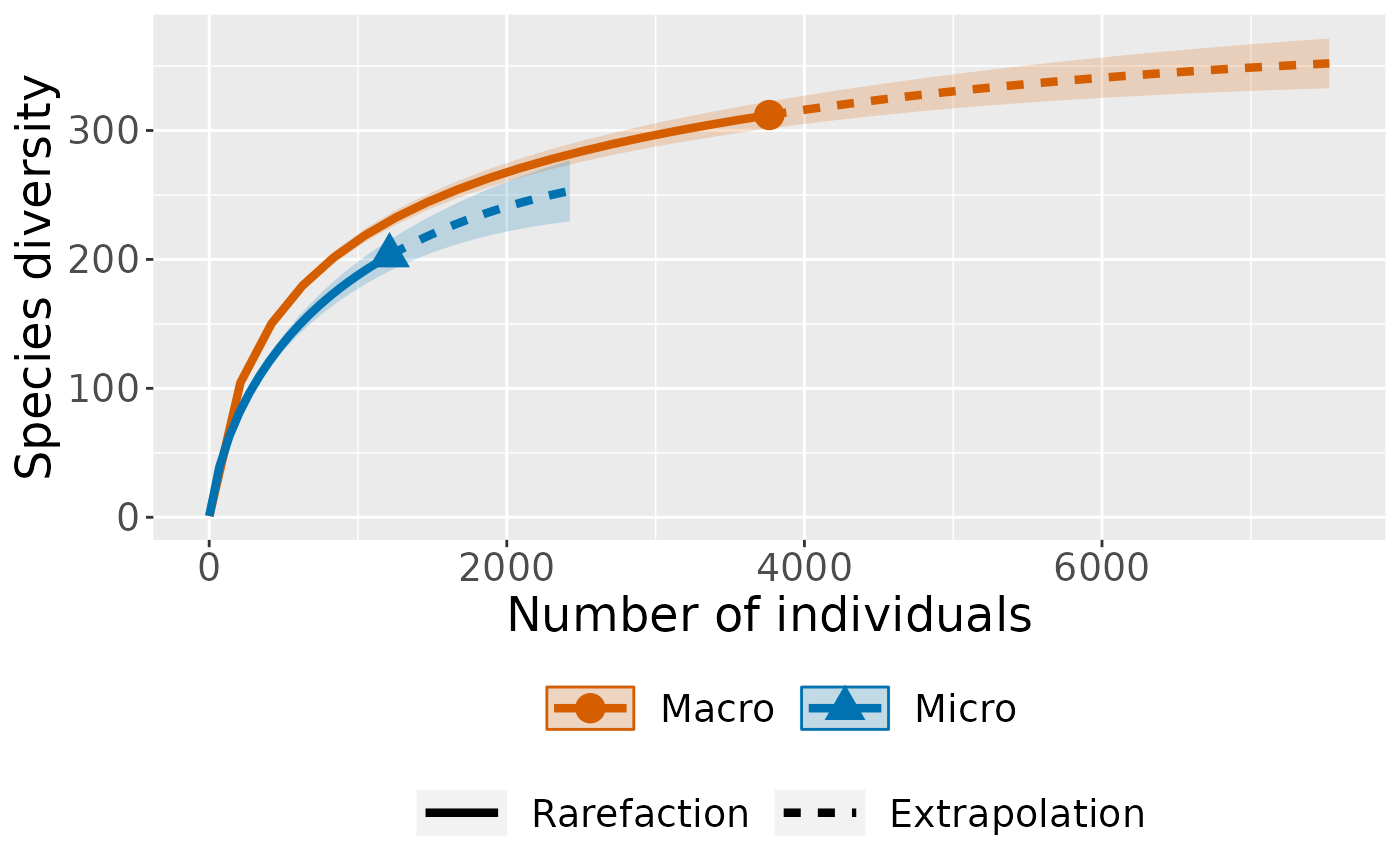
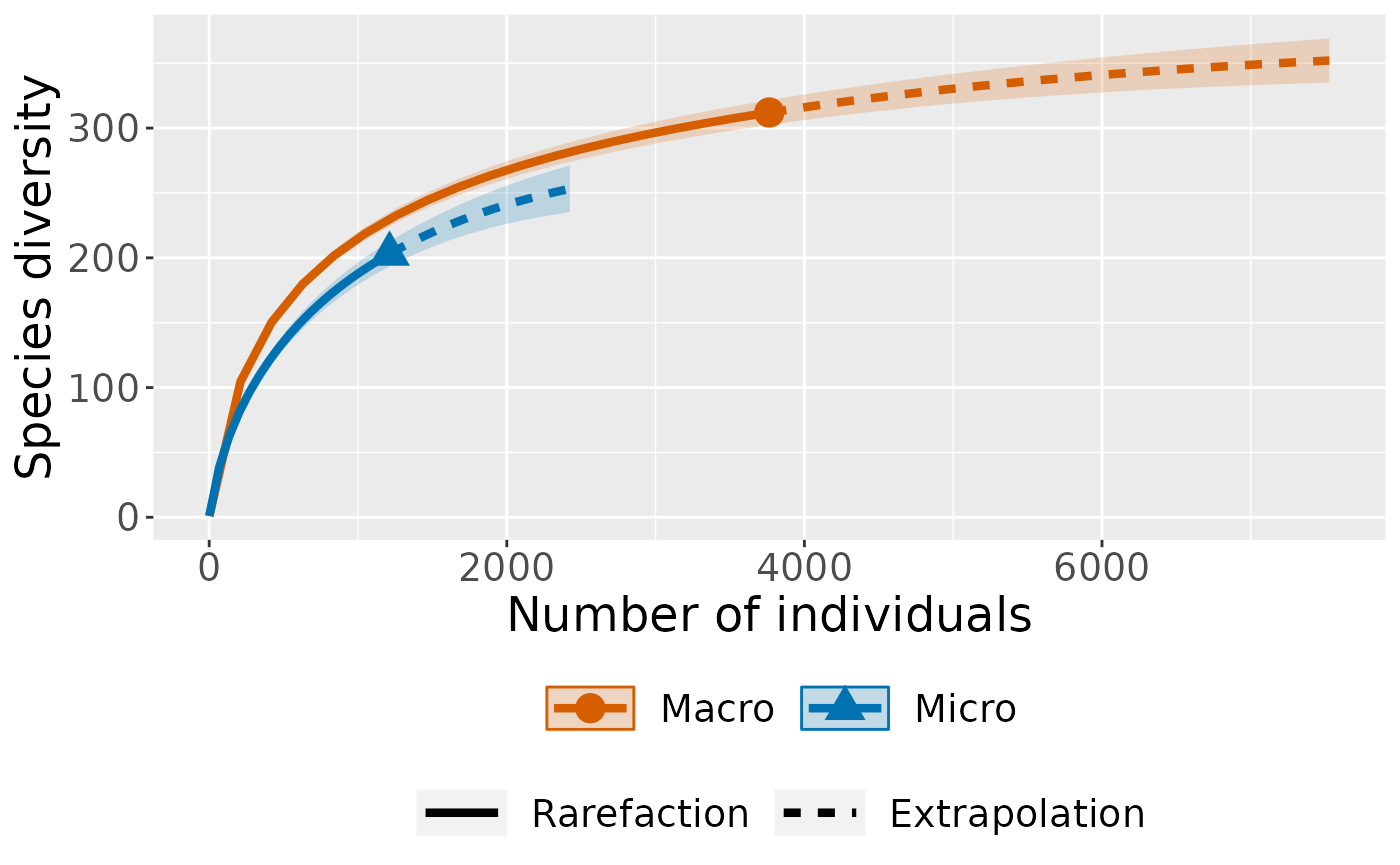
Deploying to gh-pages from @ PietrH/vlindersRarefaction@017744495704d2b400fa00a9a1edd5aad34b0b91 🚀

Changed region(s): [[0.1843, 0.0624, 0.9521, 0.4058], [0.0307, 0.1249, 0.0921, 0.1873], [0.0614, 0.2809, 0.0921, 0.3121]]

diff --git a/articles/plotting-warande.html b/articles/plotting-warande.html
@@ -122,66 +122,66 @@ shape (and exactly this shape) to this format.</p>
 <span><span class="co">#&gt; $iNextEst: diversity estimates with rarefied and extrapolated samples.</span></span>
 <span><span class="co">#&gt; $size_based (LCL and UCL are obtained for fixed size.)</span></span>
 <span><span class="co">#&gt; </span></span>
-<span><span class="co">#&gt;    Assemblage   t        Method Order.q         qD     qD.LCL    qD.UCL</span></span>
-<span><span class="co">#&gt; 1       Macro   1   Rarefaction       0  13.765432  13.164296  14.36657</span></span>
-<span><span class="co">#&gt; 10      Macro  81   Rarefaction       0 259.802910 251.536354 268.06947</span></span>
-<span><span class="co">#&gt; 20      Macro 162      Observed       0 312.000000 300.176324 323.82368</span></span>
-<span><span class="co">#&gt; 30      Macro 239 Extrapolation       0 337.999160 321.381360 354.61696</span></span>
-<span><span class="co">#&gt; 40      Macro 324 Extrapolation       0 353.816856 331.499702 376.13401</span></span>
-<span><span class="co">#&gt; 41      Micro   1   Rarefaction       0   5.006711   4.575913   5.43751</span></span>
-<span><span class="co">#&gt; 50      Micro  74   Rarefaction       0 147.884654 138.631390 157.13792</span></span>
-<span><span class="co">#&gt; 60      Micro 149      Observed       0 203.000000 190.091721 215.90828</span></span>
-<span><span class="co">#&gt; 70      Micro 220 Extrapolation       0 234.001881 217.817970 250.18579</span></span>
-<span><span class="co">#&gt; 80      Micro 298 Extrapolation       0 255.307935 234.951727 275.66414</span></span>
+<span><span class="co">#&gt;    Assemblage   t        Method Order.q         qD     qD.LCL     qD.UCL</span></span>
+<span><span class="co">#&gt; 1       Macro   1   Rarefaction       0  13.765432  13.245141  14.285723</span></span>
+<span><span class="co">#&gt; 10      Macro  81   Rarefaction       0 259.802910 250.619429 268.986392</span></span>
+<span><span class="co">#&gt; 20      Macro 162      Observed       0 312.000000 298.010957 325.989043</span></span>
+<span><span class="co">#&gt; 30      Macro 239 Extrapolation       0 337.999160 319.766242 356.232079</span></span>
+<span><span class="co">#&gt; 40      Macro 324 Extrapolation       0 353.816856 330.747774 376.885939</span></span>
+<span><span class="co">#&gt; 41      Micro   1   Rarefaction       0   5.006711   4.621654   5.391769</span></span>
+<span><span class="co">#&gt; 50      Micro  74   Rarefaction       0 147.884654 137.259141 158.510167</span></span>
+<span><span class="co">#&gt; 60      Micro 149      Observed       0 203.000000 187.241687 218.758313</span></span>
+<span><span class="co">#&gt; 70      Micro 220 Extrapolation       0 234.001881 214.162157 253.841605</span></span>
+<span><span class="co">#&gt; 80      Micro 298 Extrapolation       0 255.307935 230.441509 280.174362</span></span>
 <span><span class="co">#&gt;            SC     SC.LCL     SC.UCL</span></span>
-<span><span class="co">#&gt; 1  0.09081692 0.08436848 0.09726536</span></span>
-<span><span class="co">#&gt; 10 0.93026235 0.92319491 0.93732978</span></span>
-<span><span class="co">#&gt; 20 0.96795077 0.96179917 0.97410238</span></span>
-<span><span class="co">#&gt; 30 0.98185989 0.97535300 0.98836678</span></span>
-<span><span class="co">#&gt; 40 0.99032209 0.98493496 0.99570922</span></span>
-<span><span class="co">#&gt; 41 0.05474241 0.04670750 0.06277732</span></span>
-<span><span class="co">#&gt; 50 0.79818804 0.77093144 0.82544464</span></span>
-<span><span class="co">#&gt; 60 0.89210493 0.86964428 0.91456559</span></span>
-<span><span class="co">#&gt; 70 0.93111330 0.91063865 0.95158795</span></span>
-<span><span class="co">#&gt; 80 0.95792181 0.94114227 0.97470135</span></span>
+<span><span class="co">#&gt; 1  0.09081692 0.08517583 0.09645802</span></span>
+<span><span class="co">#&gt; 10 0.93026235 0.92288634 0.93763835</span></span>
+<span><span class="co">#&gt; 20 0.96795077 0.96154265 0.97435890</span></span>
+<span><span class="co">#&gt; 30 0.98185989 0.97531547 0.98840431</span></span>
+<span><span class="co">#&gt; 40 0.99032209 0.98503424 0.99560994</span></span>
+<span><span class="co">#&gt; 41 0.05474241 0.04722618 0.06225864</span></span>
+<span><span class="co">#&gt; 50 0.79818804 0.77547882 0.82089726</span></span>
+<span><span class="co">#&gt; 60 0.89210493 0.87148117 0.91272869</span></span>
+<span><span class="co">#&gt; 70 0.93111330 0.90925878 0.95296781</span></span>
+<span><span class="co">#&gt; 80 0.95792181 0.93864259 0.97720103</span></span>
 <span><span class="co">#&gt; </span></span>
 <span><span class="co">#&gt; NOTE: The above output only shows five estimates for each assemblage; call iNEXT.object$iNextEst$size_based to view complete output.</span></span>
 <span><span class="co">#&gt; </span></span>
 <span><span class="co">#&gt; $coverage_based (LCL and UCL are obtained for fixed coverage; interval length is wider due to varying size in bootstraps.)</span></span>
 <span><span class="co">#&gt; </span></span>
 <span><span class="co">#&gt;    Assemblage         SC   t        Method Order.q         qD     qD.LCL</span></span>
-<span><span class="co">#&gt; 1       Macro 0.09081810   1   Rarefaction       0  13.765607  13.237325</span></span>
-<span><span class="co">#&gt; 10      Macro 0.93026235  81   Rarefaction       0 259.802915 247.778547</span></span>
-<span><span class="co">#&gt; 20      Macro 0.96795077 162      Observed       0 312.000000 293.407578</span></span>
-<span><span class="co">#&gt; 30      Macro 0.98185989 239 Extrapolation       0 337.999160 312.647458</span></span>
-<span><span class="co">#&gt; 40      Macro 0.99032209 324 Extrapolation       0 353.816856 323.330099</span></span>
-<span><span class="co">#&gt; 41      Micro 0.05474241   1   Rarefaction       0   5.006711   4.590717</span></span>
-<span><span class="co">#&gt; 50      Micro 0.79818804  74   Rarefaction       0 147.884652 132.084718</span></span>
-<span><span class="co">#&gt; 60      Micro 0.89210493 149      Observed       0 203.000000 181.861370</span></span>
-<span><span class="co">#&gt; 70      Micro 0.93111330 220 Extrapolation       0 234.001881 210.027268</span></span>
-<span><span class="co">#&gt; 80      Micro 0.95792181 298 Extrapolation       0 255.307935 228.120667</span></span>
+<span><span class="co">#&gt; 1       Macro 0.09081810   1   Rarefaction       0  13.765607  13.266380</span></span>
+<span><span class="co">#&gt; 10      Macro 0.93026235  81   Rarefaction       0 259.802915 245.927419</span></span>
+<span><span class="co">#&gt; 20      Macro 0.96795077 162      Observed       0 312.000000 290.333898</span></span>
+<span><span class="co">#&gt; 30      Macro 0.98185989 239 Extrapolation       0 337.999160 311.502399</span></span>
+<span><span class="co">#&gt; 40      Macro 0.99032209 324 Extrapolation       0 353.816856 323.432619</span></span>
+<span><span class="co">#&gt; 41      Micro 0.05474241   1   Rarefaction       0   5.006711   4.597889</span></span>
+<span><span class="co">#&gt; 50      Micro 0.79818804  74   Rarefaction       0 147.884652 131.900335</span></span>
+<span><span class="co">#&gt; 60      Micro 0.89210493 149      Observed       0 203.000000 179.028174</span></span>
+<span><span class="co">#&gt; 70      Micro 0.93111330 220 Extrapolation       0 234.001881 204.528640</span></span>
+<span><span class="co">#&gt; 80      Micro 0.95792181 298 Extrapolation       0 255.307935 221.041284</span></span>
 <span><span class="co">#&gt;        qD.UCL</span></span>
-<span><span class="co">#&gt; 1   14.293889</span></span>
-<span><span class="co">#&gt; 10 271.827283</span></span>
-<span><span class="co">#&gt; 20 330.592422</span></span>
-<span><span class="co">#&gt; 30 363.350863</span></span>
-<span><span class="co">#&gt; 40 384.303614</span></span>
-<span><span class="co">#&gt; 41   5.422706</span></span>
-<span><span class="co">#&gt; 50 163.684586</span></span>
-<span><span class="co">#&gt; 60 224.138630</span></span>
-<span><span class="co">#&gt; 70 257.976494</span></span>
-<span><span class="co">#&gt; 80 282.495203</span></span>
+<span><span class="co">#&gt; 1   14.264834</span></span>
+<span><span class="co">#&gt; 10 273.678411</span></span>
+<span><span class="co">#&gt; 20 333.666102</span></span>
+<span><span class="co">#&gt; 30 364.495921</span></span>
+<span><span class="co">#&gt; 40 384.201094</span></span>
+<span><span class="co">#&gt; 41   5.415534</span></span>
+<span><span class="co">#&gt; 50 163.868969</span></span>
+<span><span class="co">#&gt; 60 226.971826</span></span>
+<span><span class="co">#&gt; 70 263.475122</span></span>
+<span><span class="co">#&gt; 80 289.574587</span></span>
 <span><span class="co">#&gt; </span></span>
 <span><span class="co">#&gt; NOTE: The above output only shows five estimates for each assemblage; call iNEXT.object$iNextEst$coverage_based to view complete output.</span></span>
 <span><span class="co">#&gt; </span></span>
 <span><span class="co">#&gt; $AsyEst: asymptotic diversity estimates along with related statistics.</span></span>
 <span><span class="co">#&gt;   Assemblage         Diversity  Observed Estimator      s.e.       LCL      UCL</span></span>
-<span><span class="co">#&gt; 1      Macro  Species richness 312.00000 371.90698 16.857158 338.86756 404.9464</span></span>
-<span><span class="co">#&gt; 2      Macro Shannon diversity 193.08584 210.89968  3.937295 203.18272 218.6166</span></span>
-<span><span class="co">#&gt; 3      Macro Simpson diversity 142.75175 151.57339  3.546636 144.62211 158.5247</span></span>
-<span><span class="co">#&gt; 4      Micro  Species richness 203.00000 288.74956 23.795867 242.11052 335.3886</span></span>
-<span><span class="co">#&gt; 5      Micro Shannon diversity 123.68027 152.96329  6.594415 140.03847 165.8881</span></span>
-<span><span class="co">#&gt; 6      Micro Simpson diversity  81.96112  91.45944  5.301807  81.06808 101.8508</span></span></code></pre></div>
+<span><span class="co">#&gt; 1      Macro  Species richness 312.00000 371.90698 16.837782 338.90553 404.9084</span></span>
+<span><span class="co">#&gt; 2      Macro Shannon diversity 193.08584 210.89968  4.433147 202.21087 219.5885</span></span>
+<span><span class="co">#&gt; 3      Macro Simpson diversity 142.75175 151.57339  4.109634 143.51866 159.6281</span></span>
+<span><span class="co">#&gt; 4      Micro  Species richness 203.00000 288.74956 21.842015 245.94000 331.5591</span></span>
+<span><span class="co">#&gt; 5      Micro Shannon diversity 123.68027 152.96329  6.835325 139.56630 166.3603</span></span>
+<span><span class="co">#&gt; 6      Micro Simpson diversity  81.96112  91.45944  5.016993  81.62631 101.2926</span></span></code></pre></div>
 <p>And plot it:</p>
 <div class="sourceCode" id="cb4"><pre class="downlit sourceCode r">
 <code class="sourceCode R"><span><span class="fu">iNEXT</span><span class="fu">::</span><span class="fu"><a href="https://rdrr.io/pkg/iNEXT/man/ggiNEXT.html" class="external-link">ggiNEXT</a></span><span class="op">(</span><span class="va">rare_out_inc</span><span class="op">)</span></span></code></pre></div>
@@ -216,71 +216,71 @@ shape (and exactly this shape) to this format.</p>
 <span><span class="co">#&gt; </span></span>
 <span><span class="co">#&gt;    Assemblage    m        Method Order.q       qD   qD.LCL   qD.UCL         SC</span></span>
 <span><span class="co">#&gt; 1       Macro    1   Rarefaction       0   1.0000   1.0000   1.0000 0.01518561</span></span>
-<span><span class="co">#&gt; 10      Macro 1882   Rarefaction       0 263.1436 256.1281 270.1590 0.96069585</span></span>
-<span><span class="co">#&gt; 20      Macro 3764      Observed       0 312.0000 301.4757 322.5243 0.98220515</span></span>
-<span><span class="co">#&gt; 30      Macro 5547 Extrapolation       0 336.5489 322.0047 351.0930 0.98960299</span></span>
-<span><span class="co">#&gt; 40      Macro 7528 Extrapolation       0 352.0598 332.7578 371.3618 0.99427725</span></span>
+<span><span class="co">#&gt; 10      Macro 1882   Rarefaction       0 263.1436 256.4991 269.7880 0.96069585</span></span>
+<span><span class="co">#&gt; 20      Macro 3764      Observed       0 312.0000 302.4437 321.5563 0.98220515</span></span>
+<span><span class="co">#&gt; 30      Macro 5547 Extrapolation       0 336.5489 324.0201 349.0777 0.98960299</span></span>
+<span><span class="co">#&gt; 40      Macro 7528 Extrapolation       0 352.0598 335.0589 369.0608 0.99427725</span></span>
 <span><span class="co">#&gt; 41      Micro    1   Rarefaction       0   1.0000   1.0000   1.0000 0.06690595</span></span>
-<span><span class="co">#&gt; 50      Micro  606   Rarefaction       0 149.2826 142.1720 156.3932 0.87805769</span></span>
-<span><span class="co">#&gt; 60      Micro 1212      Observed       0 203.0000 190.9296 215.0704 0.93487158</span></span>
-<span><span class="co">#&gt; 70      Micro 1786 Extrapolation       0 232.8697 215.7317 250.0077 0.95920486</span></span>
-<span><span class="co">#&gt; 80      Micro 2424 Extrapolation       0 253.1737 229.5597 276.7876 0.97574539</span></span>
+<span><span class="co">#&gt; 50      Micro  606   Rarefaction       0 149.2826 142.6467 155.9186 0.87805769</span></span>
+<span><span class="co">#&gt; 60      Micro 1212      Observed       0 203.0000 193.3117 212.6883 0.93487158</span></span>
+<span><span class="co">#&gt; 70      Micro 1786 Extrapolation       0 232.8697 219.7157 246.0238 0.95920486</span></span>
+<span><span class="co">#&gt; 80      Micro 2424 Extrapolation       0 253.1737 235.1758 271.1715 0.97574539</span></span>
 <span><span class="co">#&gt;        SC.LCL     SC.UCL</span></span>
-<span><span class="co">#&gt; 1  0.01409357 0.01627766</span></span>
-<span><span class="co">#&gt; 10 0.95740750 0.96398420</span></span>
-<span><span class="co">#&gt; 20 0.97891088 0.98549942</span></span>
-<span><span class="co">#&gt; 30 0.98616108 0.99304491</span></span>
-<span><span class="co">#&gt; 40 0.99144611 0.99710839</span></span>
-<span><span class="co">#&gt; 41 0.05739666 0.07641523</span></span>
-<span><span class="co">#&gt; 50 0.86618494 0.88993045</span></span>
-<span><span class="co">#&gt; 60 0.92378690 0.94595626</span></span>
-<span><span class="co">#&gt; 70 0.94608977 0.97231994</span></span>
-<span><span class="co">#&gt; 80 0.96374726 0.98774353</span></span>
+<span><span class="co">#&gt; 1  0.01403361 0.01633762</span></span>
+<span><span class="co">#&gt; 10 0.95795792 0.96343378</span></span>
+<span><span class="co">#&gt; 20 0.97943744 0.98497286</span></span>
+<span><span class="co">#&gt; 30 0.98615218 0.99305381</span></span>
+<span><span class="co">#&gt; 40 0.99120865 0.99734584</span></span>
+<span><span class="co">#&gt; 41 0.05801637 0.07579552</span></span>
+<span><span class="co">#&gt; 50 0.86941199 0.88670340</span></span>
+<span><span class="co">#&gt; 60 0.92521940 0.94452377</span></span>
+<span><span class="co">#&gt; 70 0.94810359 0.97030612</span></span>
+<span><span class="co">#&gt; 80 0.96592037 0.98557042</span></span>
 <span><span class="co">#&gt; </span></span>
 <span><span class="co">#&gt; NOTE: The above output only shows five estimates for each assemblage; call iNEXT.object$iNextEst$size_based to view complete output.</span></span>
 <span><span class="co">#&gt; </span></span>
 <span><span class="co">#&gt; $coverage_based (LCL and UCL are obtained for fixed coverage; interval length is wider due to varying size in bootstraps.)</span></span>
 <span><span class="co">#&gt; </span></span>
 <span><span class="co">#&gt;    Assemblage         SC    m        Method Order.q         qD      qD.LCL</span></span>
-<span><span class="co">#&gt; 1       Macro 0.01518581    1   Rarefaction       0   1.000013   0.9712745</span></span>
-<span><span class="co">#&gt; 10      Macro 0.96069585 1882   Rarefaction       0 263.143565 252.1752976</span></span>
-<span><span class="co">#&gt; 20      Macro 0.98220515 3764      Observed       0 312.000000 294.3107304</span></span>
-<span><span class="co">#&gt; 30      Macro 0.98960299 5547 Extrapolation       0 336.548863 314.1639052</span></span>
-<span><span class="co">#&gt; 40      Macro 0.99427725 7528 Extrapolation       0 352.059815 325.9216611</span></span>
-<span><span class="co">#&gt; 41      Micro 0.06690595    1   Rarefaction       0   1.000000   0.8861384</span></span>
-<span><span class="co">#&gt; 50      Micro 0.87805770  606   Rarefaction       0 149.282641 135.3353845</span></span>
-<span><span class="co">#&gt; 60      Micro 0.93487158 1212      Observed       0 203.000000 181.0865832</span></span>
-<span><span class="co">#&gt; 70      Micro 0.95920486 1786 Extrapolation       0 232.869717 202.9713395</span></span>
-<span><span class="co">#&gt; 80      Micro 0.97574539 2424 Extrapolation       0 253.173653 216.7088422</span></span>
+<span><span class="co">#&gt; 1       Macro 0.01518581    1   Rarefaction       0   1.000013   0.9699234</span></span>
+<span><span class="co">#&gt; 10      Macro 0.96069585 1882   Rarefaction       0 263.143565 253.2135532</span></span>
+<span><span class="co">#&gt; 20      Macro 0.98220515 3764      Observed       0 312.000000 296.9635376</span></span>
+<span><span class="co">#&gt; 30      Macro 0.98960299 5547 Extrapolation       0 336.548863 316.1240847</span></span>
+<span><span class="co">#&gt; 40      Macro 0.99427725 7528 Extrapolation       0 352.059815 326.8827939</span></span>
+<span><span class="co">#&gt; 41      Micro 0.06690595    1   Rarefaction       0   1.000000   0.9274822</span></span>
+<span><span class="co">#&gt; 50      Micro 0.87805770  606   Rarefaction       0 149.282641 138.0479881</span></span>
+<span><span class="co">#&gt; 60      Micro 0.93487158 1212      Observed       0 203.000000 186.8251174</span></span>
+<span><span class="co">#&gt; 70      Micro 0.95920486 1786 Extrapolation       0 232.869717 211.4164765</span></span>
+<span><span class="co">#&gt; 80      Micro 0.97574539 2424 Extrapolation       0 253.173653 226.9984151</span></span>
 <span><span class="co">#&gt;        qD.UCL</span></span>
-<span><span class="co">#&gt; 1    1.028752</span></span>
-<span><span class="co">#&gt; 10 274.111832</span></span>
-<span><span class="co">#&gt; 20 329.689270</span></span>
-<span><span class="co">#&gt; 30 358.933821</span></span>
-<span><span class="co">#&gt; 40 378.197970</span></span>
-<span><span class="co">#&gt; 41   1.113862</span></span>
-<span><span class="co">#&gt; 50 163.229898</span></span>
-<span><span class="co">#&gt; 60 224.913417</span></span>
-<span><span class="co">#&gt; 70 262.768095</span></span>
-<span><span class="co">#&gt; 80 289.638464</span></span>
+<span><span class="co">#&gt; 1    1.030103</span></span>
+<span><span class="co">#&gt; 10 273.073577</span></span>
+<span><span class="co">#&gt; 20 327.036462</span></span>
+<span><span class="co">#&gt; 30 356.973642</span></span>
+<span><span class="co">#&gt; 40 377.236837</span></span>
+<span><span class="co">#&gt; 41   1.072518</span></span>
+<span><span class="co">#&gt; 50 160.517294</span></span>
+<span><span class="co">#&gt; 60 219.174883</span></span>
+<span><span class="co">#&gt; 70 254.322958</span></span>
+<span><span class="co">#&gt; 80 279.348892</span></span>
 <span><span class="co">#&gt; </span></span>
 <span><span class="co">#&gt; NOTE: The above output only shows five estimates for each assemblage; call iNEXT.object$iNextEst$coverage_based to view complete output.</span></span>
 <span><span class="co">#&gt; </span></span>
 <span><span class="co">#&gt; $AsyEst: asymptotic diversity estimates along with related statistics.</span></span>
 <span><span class="co">#&gt;   Assemblage         Diversity  Observed Estimator      s.e.       LCL</span></span>
-<span><span class="co">#&gt; 1      Macro  Species richness 312.00000 371.05010 17.203511 337.33184</span></span>
-<span><span class="co">#&gt; 2      Macro Shannon diversity 131.17683 138.38326  3.084283 132.33817</span></span>
-<span><span class="co">#&gt; 3      Macro Simpson diversity  64.73642  65.85180  2.540159  60.87318</span></span>
-<span><span class="co">#&gt; 4      Micro  Species richness 203.00000 282.94680 23.001525 237.86464</span></span>
-<span><span class="co">#&gt; 5      Micro Shannon diversity  57.86578  65.89988  3.596372  58.85112</span></span>
-<span><span class="co">#&gt; 6      Micro Simpson diversity  14.77632  14.94635  1.234996  12.52581</span></span>
+<span><span class="co">#&gt; 1      Macro  Species richness 312.00000 371.05010 14.996169 341.65815</span></span>
+<span><span class="co">#&gt; 2      Macro Shannon diversity 131.17683 138.38326  2.758840 132.97603</span></span>
+<span><span class="co">#&gt; 3      Macro Simpson diversity  64.73642  65.85180  2.573427  60.80798</span></span>
+<span><span class="co">#&gt; 4      Micro  Species richness 203.00000 282.94680 21.433507 240.93790</span></span>
+<span><span class="co">#&gt; 5      Micro Shannon diversity  57.86578  65.89988  3.488254  59.06302</span></span>
+<span><span class="co">#&gt; 6      Micro Simpson diversity  14.77632  14.94635  1.118992  12.75317</span></span>
 <span><span class="co">#&gt;         UCL</span></span>
-<span><span class="co">#&gt; 1 404.76836</span></span>
-<span><span class="co">#&gt; 2 144.42834</span></span>
-<span><span class="co">#&gt; 3  70.83042</span></span>
-<span><span class="co">#&gt; 4 328.02896</span></span>
-<span><span class="co">#&gt; 5  72.94864</span></span>
-<span><span class="co">#&gt; 6  17.36690</span></span></code></pre></div>
+<span><span class="co">#&gt; 1 400.44205</span></span>
+<span><span class="co">#&gt; 2 143.79048</span></span>
+<span><span class="co">#&gt; 3  70.89562</span></span>
+<span><span class="co">#&gt; 4 324.95570</span></span>
+<span><span class="co">#&gt; 5  72.73673</span></span>
+<span><span class="co">#&gt; 6  17.13954</span></span></code></pre></div>
 <p>And plot it:</p>
 <div class="sourceCode" id="cb6"><pre class="downlit sourceCode r">
 <code class="sourceCode R"><span><span class="fu">iNEXT</span><span class="fu">::</span><span class="fu"><a href="https://rdrr.io/pkg/iNEXT/man/ggiNEXT.html" class="external-link">ggiNEXT</a></span><span class="op">(</span><span class="va">rare_out_abun</span><span class="op">)</span></span></code></pre></div>
